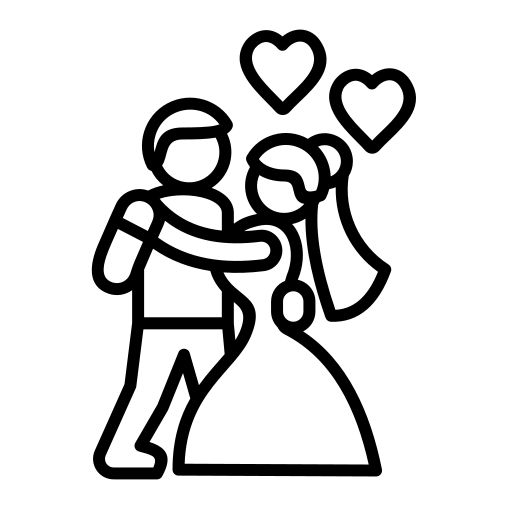
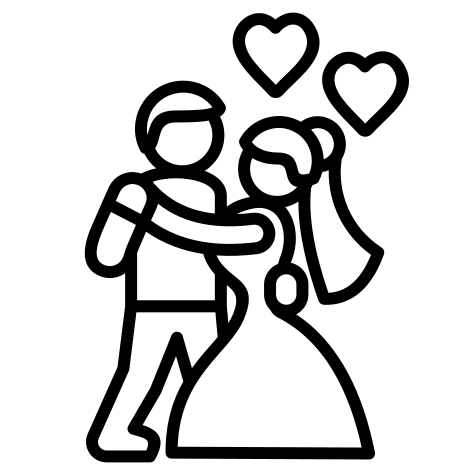
Update orari

Changed region(s): [[0.178, 0.0297, 0.8898, 0.9788]]

diff --git a/index.html b/index.html
@@ -471,7 +471,7 @@
 				  <p class="lang-content" data-lang="en">
 					The whole event will be held at <strong>Villa Merlo Dragoni</strong> in Lovaria, a village not far from Udine.
 					Free parking is available on site (see map).
-					Please arrive by <strong>13:30</strong> for a prompt start at <strong>14:00</strong>.
+					The event will start at <strong>13:30</strong>. We kindly ask you to be there on time.
 				  </p>
 
 				  <p class="event-instagram lang-content" data-lang="en">
@@ -503,7 +503,7 @@
 				  <p class="lang-content" data-lang="it">
 					L’intero evento si svolgerà presso <strong>Villa Merlo Dragoni</strong> a Lovaria, non lontano da Udine.
 					È disponibile un parcheggio gratuito in loco (vedi mappa).
-					Vi chiediamo di arrivare entro le <strong>13:30</strong> per iniziare puntualmente alle <strong>14:00</strong>.
+					L'evento inizierà alle <strong>13:30</strong>. Vi chiediamo di arrivare puntuali.
 				  </p>
 
 				  <p class="event-instagram lang-content" data-lang="it">
@@ -579,9 +579,9 @@
 								</div>
 								<div class="timeline-body">
 								  <!-- EN -->
-								  <p class="lang-content" data-lang="en">The moment we say “I do.” Join us for the ceremony in the villa gardens. Please arrive a little early so we can start right on time.</p>
+								  <p class="lang-content" data-lang="en">The moment we say “I do.” Join us for the ceremony in the villa gardens. Remember to bring some tissues.</p>
 								  <!-- IT -->
-								  <p class="lang-content" data-lang="it">Il momento in cui diremo “sì”. La cerimonia si svolgerà nei giardini della villa. Vi chiediamo di arrivare con anticipo per iniziare puntualmente.</p>
+								  <p class="lang-content" data-lang="it">Il momento in cui diremo “sì”. La cerimonia si svolgerà nei giardini della villa. Portatevi i fazzoletti.</p>
 								</div>
 							</div>
 						</li>
@@ -614,10 +614,10 @@
 								<div class="timeline-heading">
 								  <!-- EN -->
 								  <h3 class="timeline-title lang-content" data-lang="en">Reception</h3>
-								  <span class="date lang-content" data-lang="en">17:00 – 21:00</span>
+								  <span class="date lang-content" data-lang="en">17:00 – 20:00</span>
 								  <!-- IT -->
 								  <h3 class="timeline-title lang-content" data-lang="it">Ricevimento</h3>
-								  <span class="date lang-content" data-lang="it">17:00 – 21:00</span>
+								  <span class="date lang-content" data-lang="it">17:00 – 20:00</span>
 								</div>
 								<div class="timeline-body">
 								  <!-- EN -->
@@ -629,22 +629,64 @@
 						</li>
 						<li class="timeline-inverted animate-box">
 							<div class="timeline-badge">
+								<img src="images/wedding-cake.png" alt="Cake Cutting" />
+							</div>
+							<div class="timeline-panel">
+								<div class="timeline-heading">
+								  <!-- EN -->
+								  <h3 class="timeline-title lang-content" data-lang="en">Cake Cutting</h3>
+								  <span class="date lang-content" data-lang="en">20:00 – 20:30</span>
+								  <!-- IT -->
+								  <h3 class="timeline-title lang-content" data-lang="it">Taglio della torta</h3>
+								  <span class="date lang-content" data-lang="it">20:00 – 20:30</span>
+								</div>
+								<div class="timeline-body">
+								  <!-- EN -->
+								  <p class="lang-content" data-lang="en">Time for something sweet! Join us as we cut the cake, raise another toast, and get ready for the evening celebrations.</p>
+								  <!-- IT -->
+								  <p class="lang-content" data-lang="it">Un po' di dolcezza! Ci ritroviamo per il taglio della torta, un altro brindisi e per dare ufficialmente il via alla serata.</p>
+								</div>
+							</div>
+						</li>
+						<li class="timeline animate-box">
+							<div class="timeline-badge">
 								<img src="images/dance.png" alt="Party" />
 							</div>
 							<div class="timeline-panel">
 								<div class="timeline-heading">
 								  <!-- EN -->
-								  <h3 class="timeline-title lang-content" data-lang="en">Party</h3>
-								  <span class="date lang-content" data-lang="en">21:00 – 02:00<sup>+</sup></span>
+								  <h3 class="timeline-title lang-content" data-lang="en">DJ set</h3>
+								  <span class="date lang-content" data-lang="en">20:30 – 22:00</span>
 								  <!-- IT -->
-								  <h3 class="timeline-title lang-content" data-lang="it">Festa</h3>
-								  <span class="date lang-content" data-lang="it">21:00 – 02:00<sup>+</sup></span>
+								  <h3 class="timeline-title lang-content" data-lang="it">DJ set</h3>
+								  <span class="date lang-content" data-lang="it">20:30 – 22:00</span>
 								</div>
 								<div class="timeline-body">
 								  <!-- EN -->
-								  <p class="lang-content" data-lang="en">Shoes optional, dancing encouraged. Let’s celebrate into the night with music, drinks, and plenty of dancing.</p>
+								  <p class="lang-content" data-lang="en">Grab a drink, start warming up, and enjoy the atmosphere.</p>
 								  <!-- IT -->
-								  <p class="lang-content" data-lang="it">Tutti in pista, le scarpe sono un optional. Festeggiamo fino a notte fonda tra musica, drink e tanta voglia di divertirsi.</p>
+								  <p class="lang-content" data-lang="it">Prendetevi qualcosa da bere, iniziate a scaldare i motori e lasciatevi trasportare dall’atmosfera.</p>
+								</div>
+							</div>
+						</li>
+						<li class="timeline-inverted animate-box">
+							<div class="timeline-badge">
+								<img src="images/live-music.png" alt="Live Music" />
+							</div>
+							<div class="timeline-panel">
+								<div class="timeline-heading">
+								  <!-- EN -->
+								  <h3 class="timeline-title lang-content" data-lang="en">Live Music & Party</h3>
+								  <span class="date lang-content" data-lang="en">22:00 – 02:00<sup>+</sup></span>
+								  <!-- IT -->
+								  <h3 class="timeline-title lang-content" data-lang="it">Musica dal vivo & Festa</h3>
+								  <span class="date lang-content" data-lang="it">22:00 – 02:00<sup>+</sup></span>
+								</div>
+								<div class="timeline-body">
+								  <!-- EN -->
+								  <p class="lang-content" data-lang="en">The band takes over! Shoes optional, dancing encouraged. Let's celebrate together well into the night!</p>
+								  <!-- IT -->
+								  <p class="lang-content" data-lang="it">Ora tocca alla band! Tutti in pista, le scarpe sono un optional. Festeggiamo insieme fino a notte fonda!</p>
 								</div>
 							</div>
 						</li>
